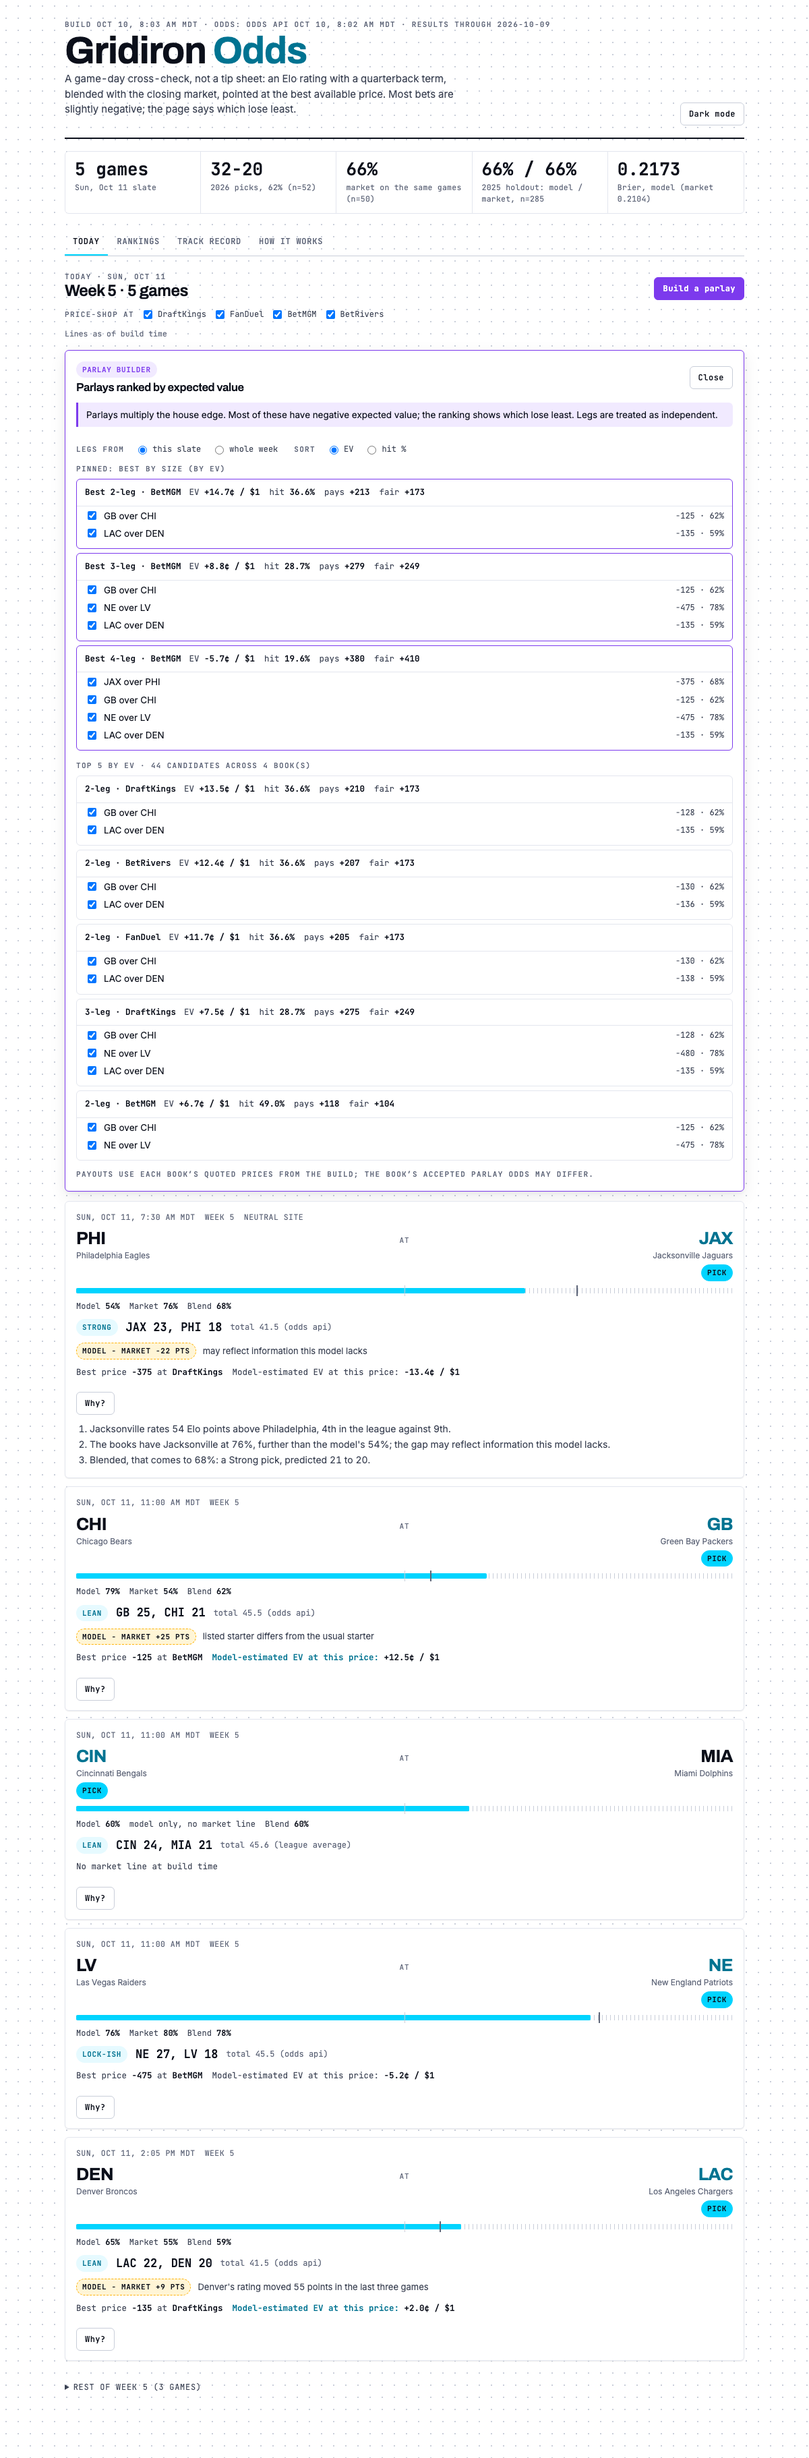
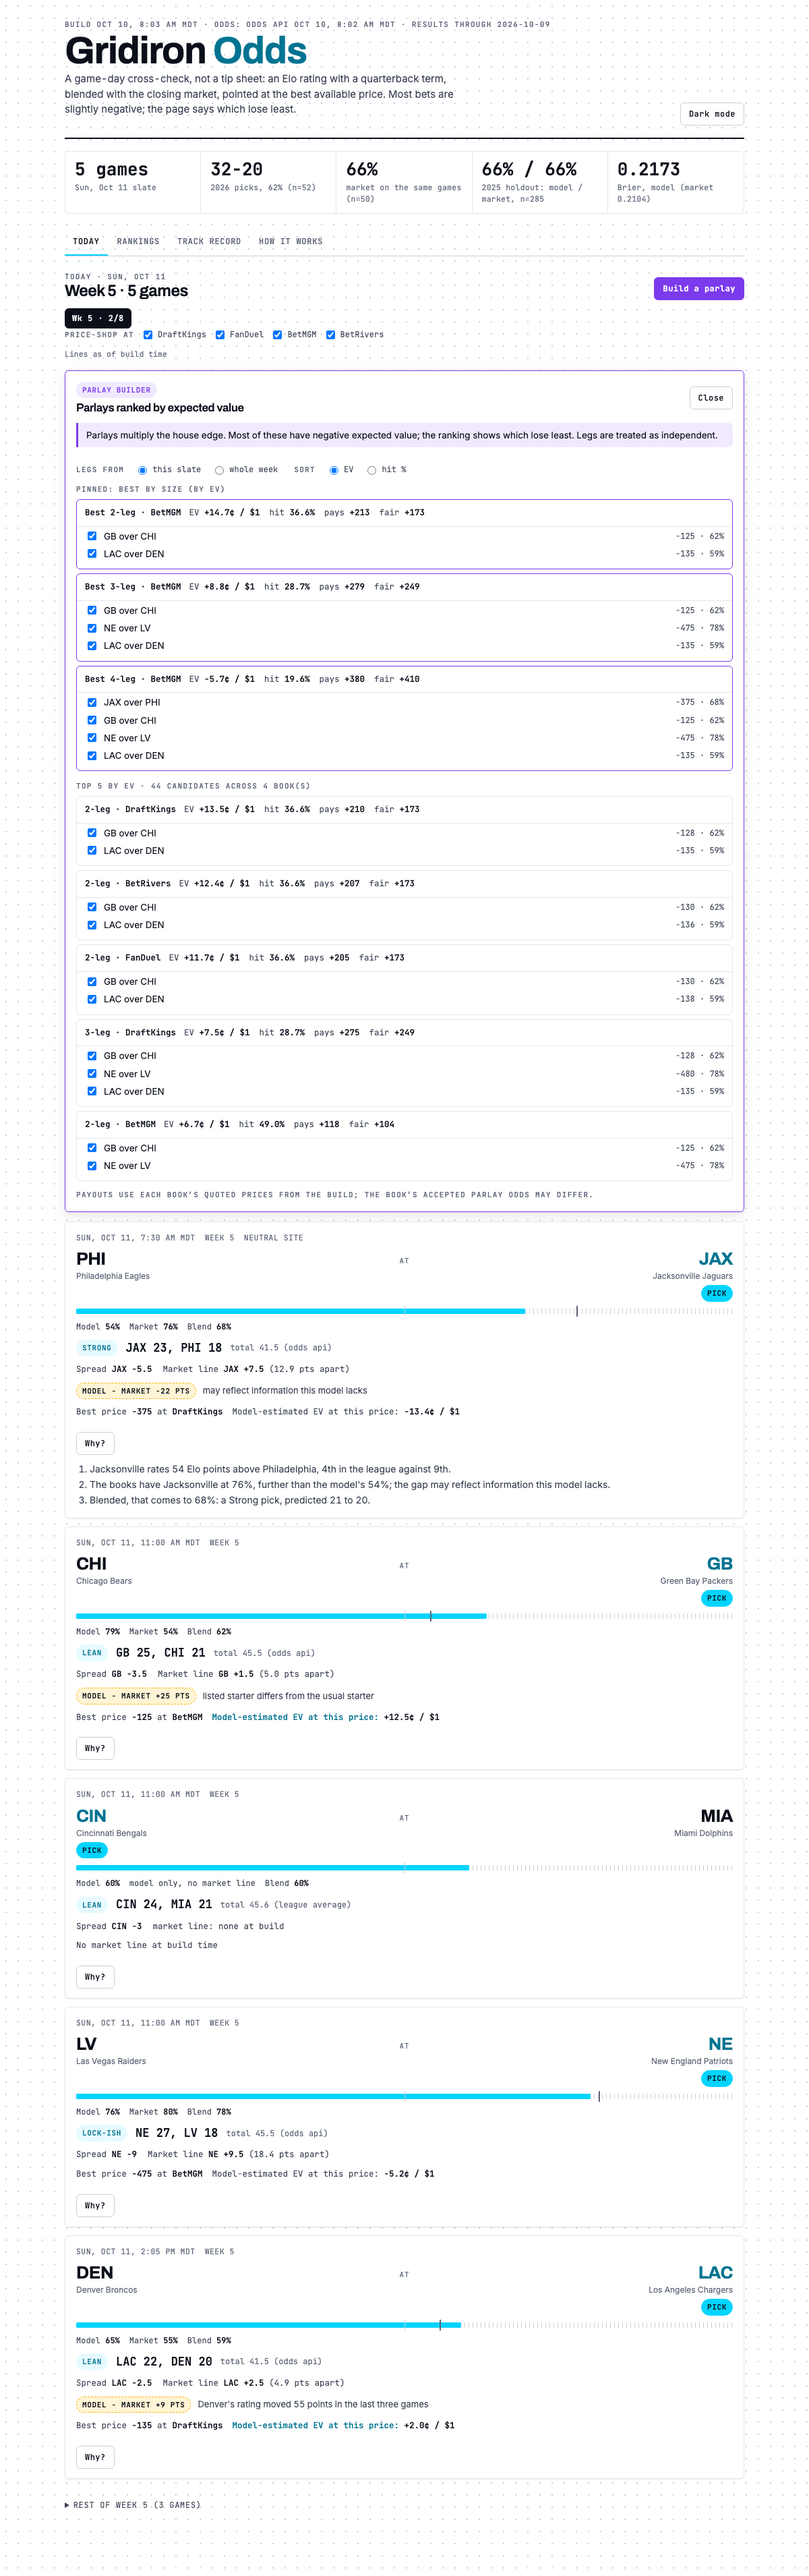
Page: spread line (page vs market) on every card; week navigation to browse past slates

diff --git a/src/page_template.html b/src/page_template.html
@@ -198,6 +198,11 @@ header { display: flex; flex-wrap: wrap; gap: 12px 24px; align-items: flex-end; 
 .probs { display: flex; flex-wrap: wrap; gap: 4px 14px; font-family: var(--mono); font-size: 12px; color: var(--ink-2); }
 .probs b { color: var(--ink); font-weight: 600; }
 .pred { display: flex; flex-wrap: wrap; align-items: center; gap: 8px 12px; }
+.spreadline { display: flex; flex-wrap: wrap; gap: 4px 16px; font-size: 12.5px; color: var(--ink-2); }
+.spreadline b { color: var(--ink); font-weight: 600; }
+.slate-nav { display: flex; flex-wrap: wrap; gap: 6px; margin-top: 10px; }
+.slate-nav .btn { padding: 5px 10px; }
+.slate-nav .btn.current { background: var(--ink); color: var(--paper); border-color: var(--ink); }
 .pred .score { font-family: var(--mono); font-size: 17px; font-weight: 600; }
 .price { display: flex; flex-wrap: wrap; align-items: center; gap: 6px 14px; font-family: var(--mono); font-size: 12.5px; color: var(--ink-2); }
 .price b { color: var(--ink); font-weight: 600; }
@@ -324,6 +329,7 @@ td.num { font-family: var(--mono); }
       </div>
       <button class="btn signal" id="parlay-btn" type="button" aria-expanded="false" aria-controls="parlay">Build a parlay</button>
     </div>
+    <nav class="slate-nav" id="slate-nav" aria-label="Slates this season"></nav>
     <div class="books" id="books" aria-label="Books used for best price"></div>
     <div class="status" id="live-status"><span id="live-note">Lines as of build time</span></div>
     <section class="parlay" id="parlay" hidden aria-labelledby="parlay-title"></section>
@@ -393,6 +399,8 @@ function clear(el) { while (el.firstChild) el.removeChild(el.firstChild); return
 const $ = (id) => document.getElementById(id);
 
 const MINUS = '−';
+/** A spread from the pick's side: favorites negative (JAX −7.5), underdogs positive (CLE +1.5), pick'em 0. */
+function fmtSpread(s) { const v = -s; const r = Math.round(v * 2) / 2; if (r === 0) return 'PK'; return (r < 0 ? MINUS : '+') + Math.abs(r).toFixed(1).replace(/\.0$/, ''); }
 /** Round half away from zero (contract section 0), for display only. */
 function roundHalfUp(x) { return x < 0 ? -Math.floor(-x + 0.5) : Math.floor(x + 0.5); }
 const pct = (p) => p == null ? '—' : roundHalfUp(p * 100) + '%';
@@ -524,9 +532,26 @@ function renderScorecard() {
 
 /* ---- 5. Today view + game cards -------------------------------------- */
 /** Viewer's league date; ?date=YYYY-MM-DD (or window.GRIDIRON_TODAY) overrides for debugging/tests. */
+let VIEW_DATE = null; // set by the slate navigation; null = the viewer's real league date
 function viewerLeagueDate() {
-  const q = new URLSearchParams(location.search).get('date') || window.GRIDIRON_TODAY;
+  const q = VIEW_DATE || new URLSearchParams(location.search).get('date') || window.GRIDIRON_TODAY;
   return /^\d{4}-\d{2}-\d{2}$/.test(q || '') ? q : nyDate(new Date());
+}
+/** One button per week of the season (its first league date), finished weeks first; the viewed week is highlighted. */
+function renderSlateNav(currentDate) {
+  const nav = clear($('slate-nav'));
+  const weeks = new Map();
+  for (const g of MODEL.games) { const w = weeks.get(g.week) || { week: g.week, dates: new Set(), finals: 0, n: 0 }; w.dates.add(g.league_date); w.n++; if (g.status === 'final') w.finals++; weeks.set(g.week, w); }
+  const curWeek = (MODEL.games.find((g) => g.league_date === currentDate) || {}).week;
+  const ordered = Array.from(weeks.values()).sort((a, b) => a.week - b.week).filter((w) => w.finals > 0 || w.week === curWeek || (curWeek != null && w.week === curWeek + 1));
+  for (const w of ordered) {
+    const dates = Array.from(w.dates).sort();
+    const target = dates.find((d) => MODEL.games.some((g) => g.league_date === d && g.status !== 'final')) || dates[dates.length - 1];
+    const label = 'Wk ' + w.week + (w.finals === w.n ? ' · final' : w.finals ? ' · ' + w.finals + '/' + w.n : '');
+    const b = h('button', { class: 'btn' + (w.week === curWeek ? ' current' : ''), type: 'button', 'aria-pressed': String(w.week === curWeek) }, label);
+    b.addEventListener('click', () => { VIEW_DATE = target; renderToday(); if (!$('parlay').hidden) renderParlay(); });
+    nav.appendChild(b);
+  }
 }
 /** D7: today's slate, else the next league date with games, else the last one. */
 function chooseSlate(today) {
@@ -585,6 +610,13 @@ function gameCard(g) {
   // Both the pick and the score follow the blend (D3/D5 amended), so the pick is always the higher score.
   card.appendChild(h('div', { class: 'pred' }, h('span', { class: 'chip cyan' }, off.tier), h('span', { class: 'score' }, predScore), h('span', { class: 'mono', style: 'font-size:12px;color:var(--ink-3)' }, 'total ' + fix(off.total_used, 1) + ' (' + off.total_source.replace('_', ' ') + ')'),
     pickPts > oppPts ? null : h('span', { class: 'eyebrow' }, 'model-only score; the pick follows the blend')));
+  // Spread line: the page's spread (from the blend) beside the market's consensus spread, both from the pick's side.
+  const pickSpread = pickHome ? off.blend_spread : -off.blend_spread;
+  const mktHome = off.market ? off.market.consensus_home_spread : null;
+  const mktSpread = mktHome == null ? null : (pickHome ? mktHome : -mktHome);
+  card.appendChild(h('div', { class: 'spreadline mono' },
+    h('span', null, 'Spread ', h('b', null, off.pick + ' ' + fmtSpread(pickSpread))),
+    mktSpread == null ? h('span', null, 'market line: none at build') : h('span', null, 'Market line ', h('b', null, off.pick + ' ' + fmtSpread(mktSpread)), mktSpread !== null && Math.abs(pickSpread - mktSpread) >= 3 ? ' (' + fix(Math.abs(pickSpread - mktSpread), 1) + ' pts apart)' : '')));
 
   // Edge chip (D17): amber, dashed, one measured reason.
   if (off.edge && off.edge.flag) {
@@ -652,10 +684,12 @@ function renderToday() {
   const week = slateGames.length ? slateGames[0].week : null;
   const rest = MODEL.games.filter((g) => g.week === week && g.league_date !== pick.date);
   SLATE = { date: pick.date, kind: pick.kind, games: slateGames, week: rest };
-  const label = pick.kind === 'today' ? 'Today · ' + fmtLeagueDate(pick.date)
+  const label = VIEW_DATE ? 'Viewing ' + fmtLeagueDate(pick.date) + (pick.kind === 'today' ? ' · today' : '')
+    : pick.kind === 'today' ? 'Today · ' + fmtLeagueDate(pick.date)
     : pick.kind === 'next' ? 'No games today (' + fmtLeagueDate(today) + ') · Next slate: ' + fmtLeagueDate(pick.date)
     : pick.kind === 'last' ? 'Season over · Last slate: ' + fmtLeagueDate(pick.date) : 'No games in model';
   $('slate-label').textContent = label;
+  renderSlateNav(pick.date);
   $('slate-title').textContent = week != null ? 'Week ' + week + ' · ' + slateGames.length + (slateGames.length === 1 ? ' game' : ' games') : 'No games';
   const box = clear($('slate'));
   if (!slateGames.length) box.appendChild(h('div', { class: 'empty' }, 'No games in the model for this date.'));
